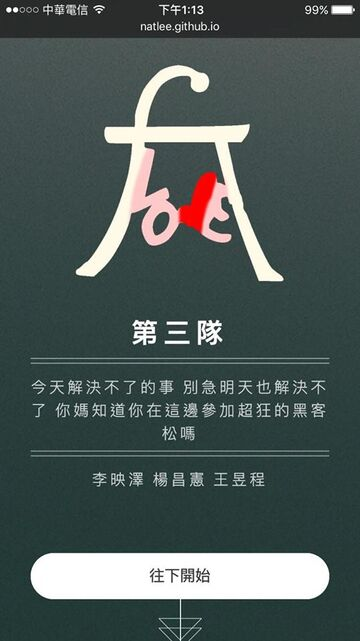
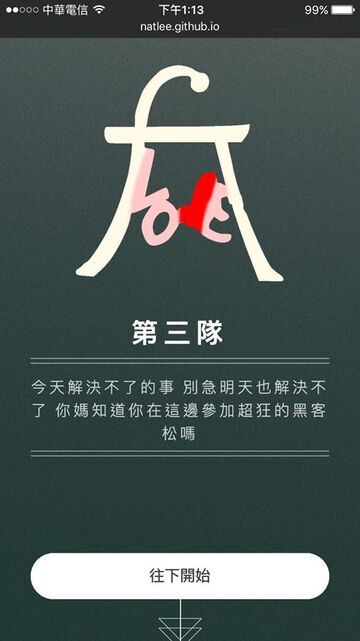
docs: credit the 2016 team without real names
The owner decided the site and docs should not publish the 2016
teammates' real names. The team is now thanked as a team, and only GitHub
accounts are named: impaulapple (most of the original code) and NatLee
(2026 rewrite). The credits live in one list in src/config.ts.

The names line in the 2016 phone screenshot (docs/2016/01-cover.jpg) is
painted over. Git history is left as it is.

Changed region(s): [[0.4278, 0.7176, 0.7333, 0.78], [0.2444, 0.7176, 0.3972, 0.78]]

diff --git a/src/components/About.tsx b/src/components/About.tsx
@@ -12,11 +12,19 @@ export default function About({ metro, bus }: { metro: MetroData | null; bus: Bu
         <span className="text-dim">「今天解決不了的事 別急 明天也解決不了」</span>
       </blockquote>
       <p>
-        2016 年團隊：李映澤、楊昌憲、王昱程。原始程式大多由{' '}
-        <a className="text-cyan underline" href={`https://github.com/${PROJECT.teammate}`} target="_blank" rel="noreferrer">
-          @{PROJECT.teammate}
-        </a>{' '}
-        寫成。<a className="text-cyan underline" href={`${PROJECT.repoUrl}/${PROJECT.deckPath}`} target="_blank" rel="noreferrer">2016 年的簡報內容</a>
+        感謝 2016 年第三隊的全體隊友。
+        {PROJECT.credits.map((c) => (
+          <span key={c.login}>
+            {' '}
+            <a className="text-cyan underline" href={`https://github.com/${c.login}`} target="_blank" rel="noreferrer">
+              @{c.login}
+            </a>
+            ：{c.role}。
+          </span>
+        ))}{' '}
+        <a className="text-cyan underline" href={`${PROJECT.repoUrl}/${PROJECT.deckPath}`} target="_blank" rel="noreferrer">
+          2016 年的簡報內容
+        </a>
       </p>
       <p>
         資料：捷運路網 {day(metro?.generatedAt)}，公車路線 {day(bus?.generatedAt)}。時間是估計值：捷運用官方班距，公車優先用即時到站；票價為單程全票，不含轉乘優惠和月票。

diff --git a/src/config.ts b/src/config.ts
@@ -5,8 +5,14 @@ export const PROJECT = {
   repoUrl: 'https://github.com/NatLee/taipei-transit-radar',
   /** The 2016 team deck, kept as Markdown in the repo. */
   deckPath: 'blob/main/docs/2016-hackathon.md',
-  /** GitHub account of the 2016 teammate who wrote most of the original code. */
-  teammate: 'impaulapple',
+  /**
+   * People credited for the project. The 2016 team is credited as a team; individuals appear
+   * only by GitHub account, never by real name (owner's decision).
+   */
+  credits: [
+    { login: 'impaulapple', role: '寫了 2016 年大部分的程式' },
+    { login: 'NatLee', role: '2026 年重寫' },
+  ],
 } as const;
 
 /** Open data feeds. All of them are free, need no key and allow cross-origin reads. */

diff --git a/README.md b/README.md
@@ -123,7 +123,7 @@ docs/                  2016 年黑客松簡報內容、截圖、封面
 
 當年用 jQuery、HTML5 UP 模板、Google Maps 和 D3.js 做成，用 Google Directions 比較步行、公車、捷運三種走法。簡報內容、當年的手機畫面，以及每個舊功能在新版的對應，都在 [`docs/2016-hackathon.md`](docs/2016-hackathon.md)。
 
-團隊：李映澤、楊昌憲、王昱程。
+感謝 2016 年第三隊的全體隊友。GitHub 上的貢獻者：[@impaulapple](https://github.com/impaulapple) 寫了當年大部分的程式，[@NatLee](https://github.com/NatLee) 在 2026 年重寫。
 
 ## 授權
 

diff --git a/docs/2016-hackathon.md b/docs/2016-hackathon.md
@@ -4,7 +4,7 @@
 
 ![2016 年的 logo](2016/logo.png)
 
-**第三隊**：楊昌憲、王昱程、李映澤
+**第三隊**：GitHub 上的成員是 [@impaulapple](https://github.com/impaulapple)（寫了大部分的程式）和 [@NatLee](https://github.com/NatLee)。
 
 > 今天解決不了的事 別急 明天也解決不了
 > 你媽知道你在這邊參加超狂的黑客松嗎
